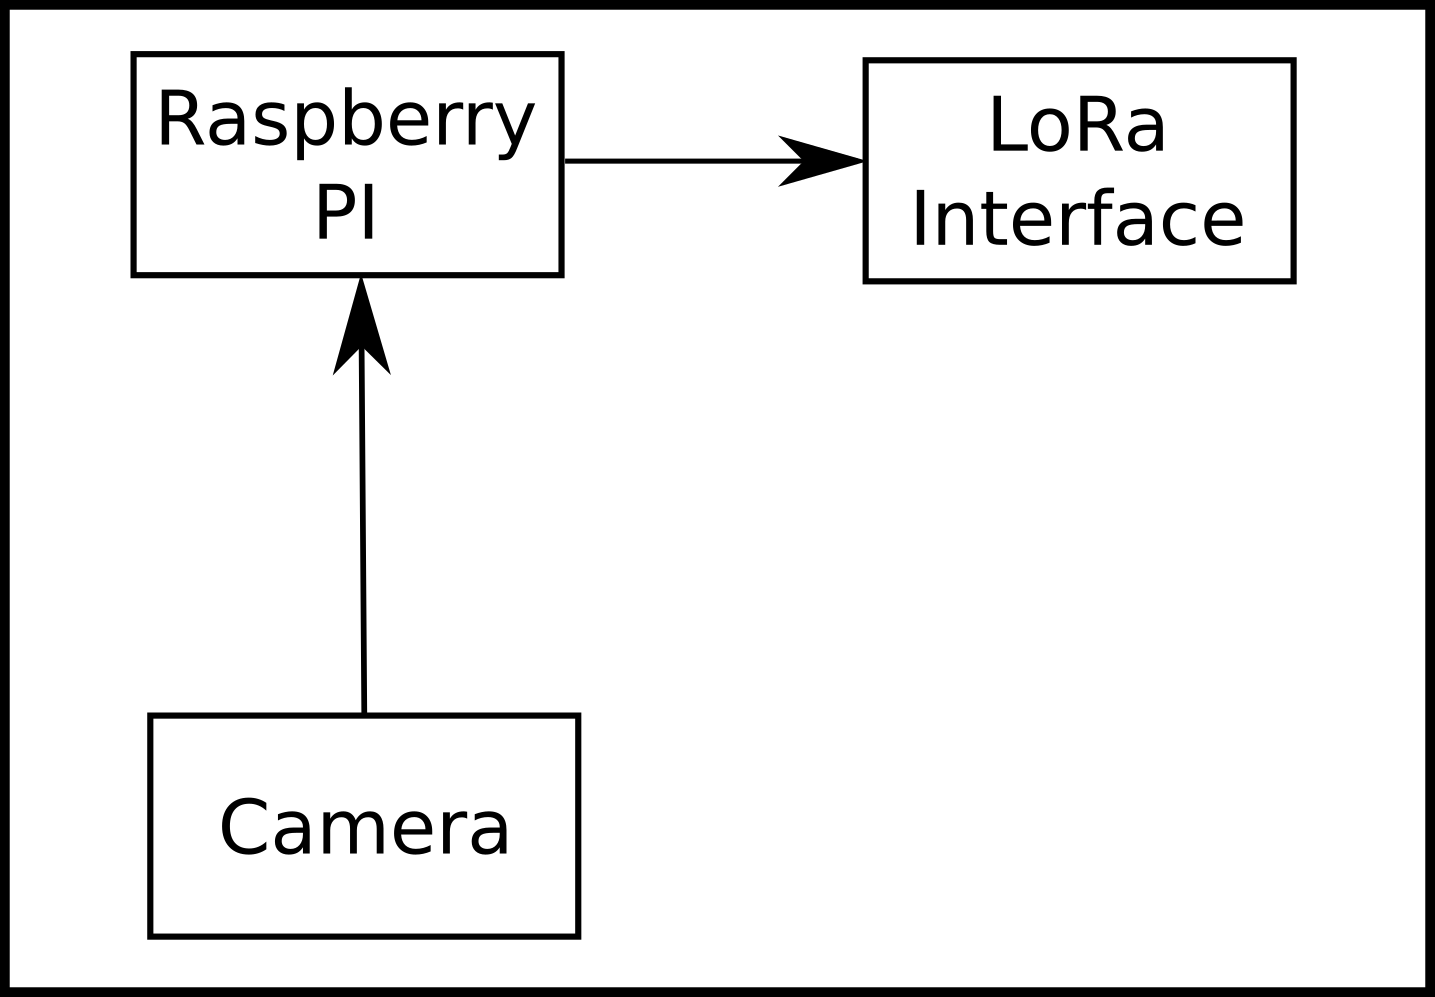
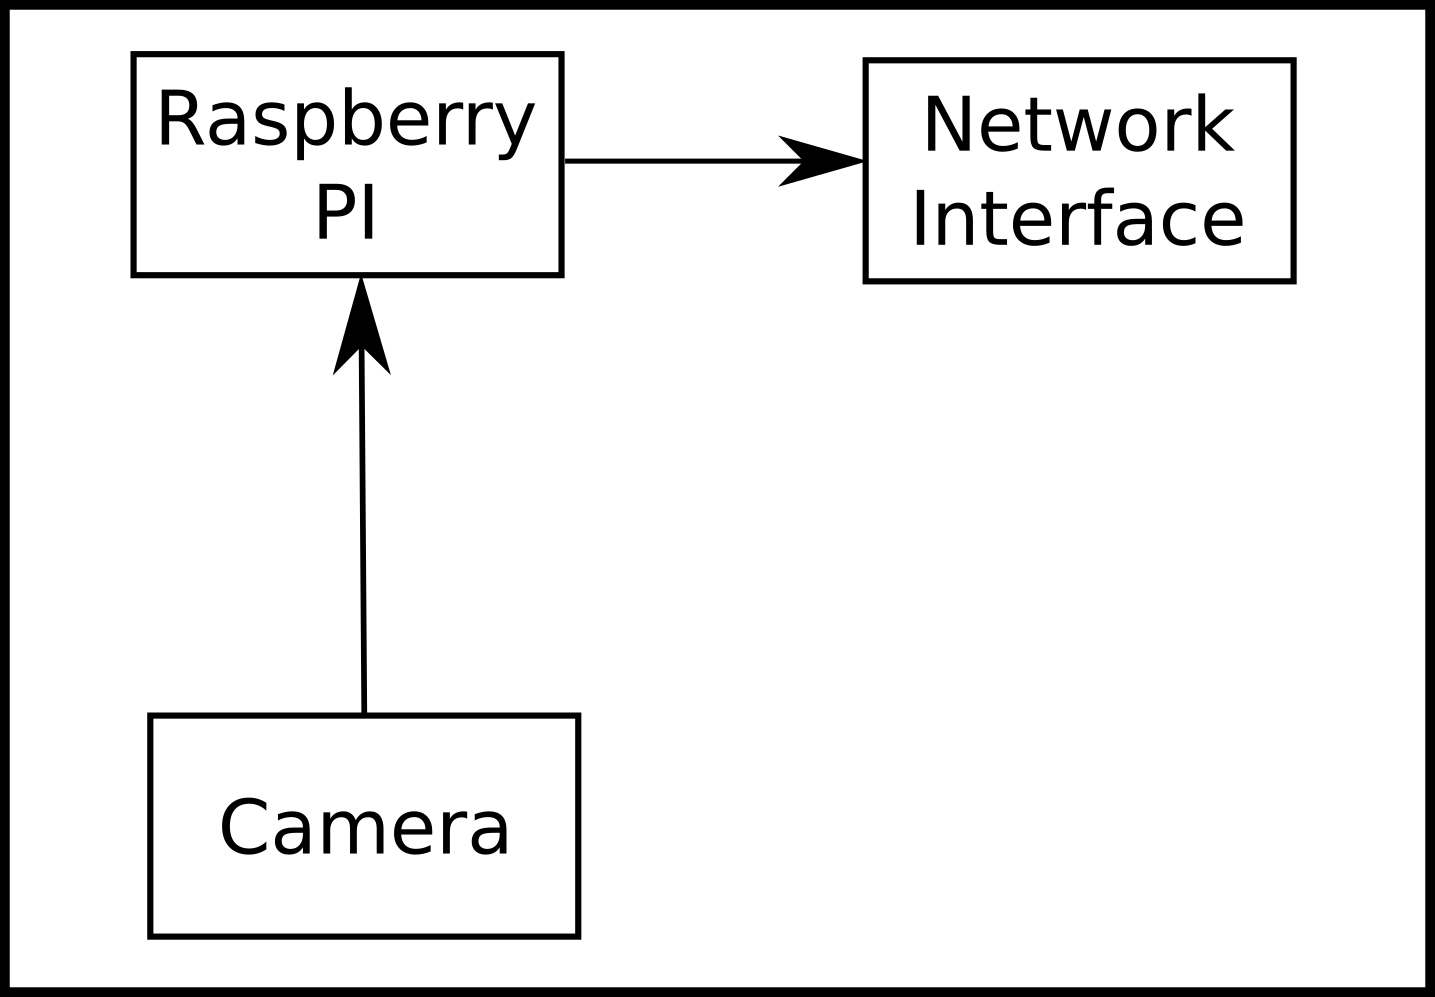
Technology.md updated

Changed region(s): [[0.6439, 0.0933, 0.8585, 0.1555]]

diff --git a/Technology.md b/Technology.md
@@ -8,13 +8,11 @@ The main macro components are:
 - **Screens**, inside the marina there are some screens, useful to give indications at the sailor to find his dock spot.
 - **Park sensor**, for each dock there is a sensor to detect if a boat is presents and a LED that blink when a sailor is searching his dock.
 
-### Oil spill sensor
+### Oil spill sensor [Work in progress]
 
 This device reading the reflection of the water can estimate if there is some floating oil, in this case the part of the marina in which the sensor is located will be closed and the marina's workers will intervenes before that the spill reaches the sea.
 
 This sensor is connected to the nearest stm32 board of the dock device.
-
-More info: https://ldi.ee/products/row-oil-detector
 
 ### Dock device
 
@@ -34,15 +32,15 @@ For each side there are:
 
 - **Camera** 
 - **Raspberry PI** to read the name of the boat.
-- **LoRa Interface** that sends computed data to the marina server.
+- **Network Interface** that sends computed data to the marina server over MQTT on 6LoWPAN.
 
-Image processing is executed in the raspberry pi and the read name is sended.
+Image processing is executed in the raspberry pi and the read name is sent.
 
 **Marina server** in which are local computation are executed.
 
 It's composed by:
 
-- **LoRa interface** that communicate with all the devices installed in the marina.
+- **Network interface** that communicate with all the devices installed in the marina over 6LoWPAN.
 - **STM32 Board** the local elaboration node.
 - **Internet interface** to connect the local system to the cloud.
 
@@ -55,7 +53,7 @@ The major software components are:
 
 ![Software component](resources/images/network_infrastructure.png)
 
-For the communication inside the marina LoRa is used.
+For the communication inside the marina 6LoWPAN is used.
 The marina server send updating data over MQTT to the cloud system.
 
 Software work flow examples:
